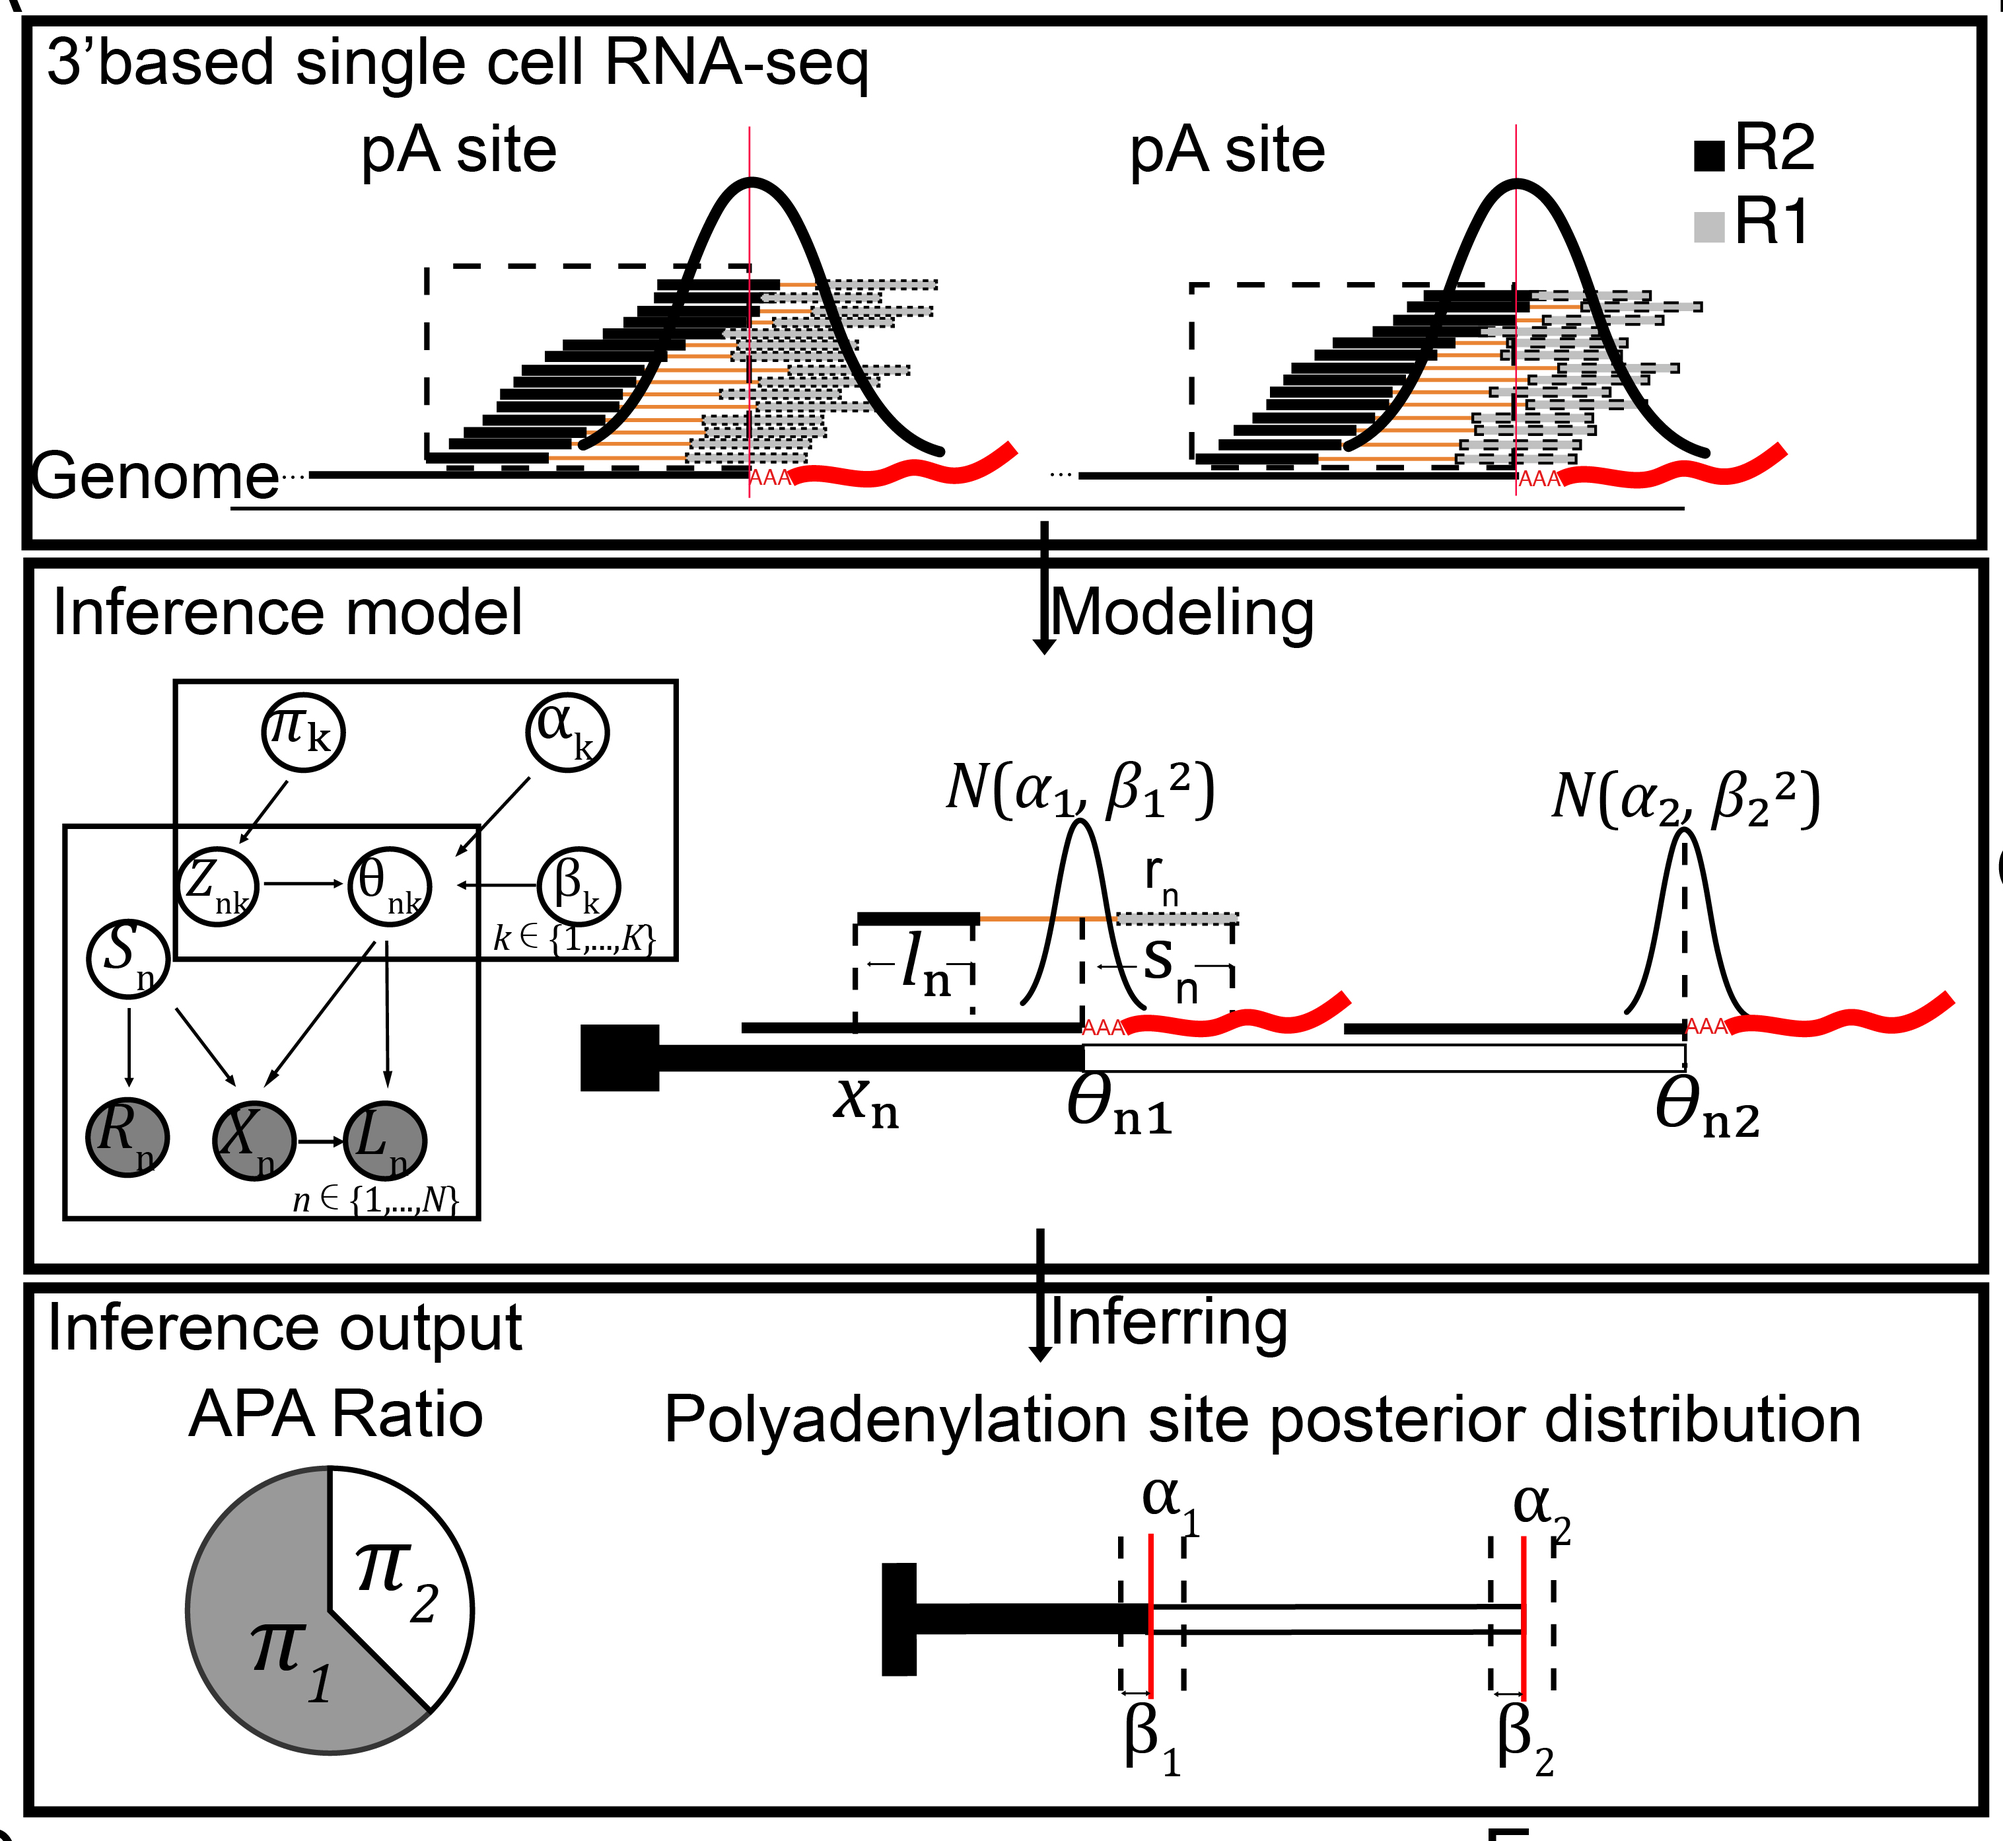
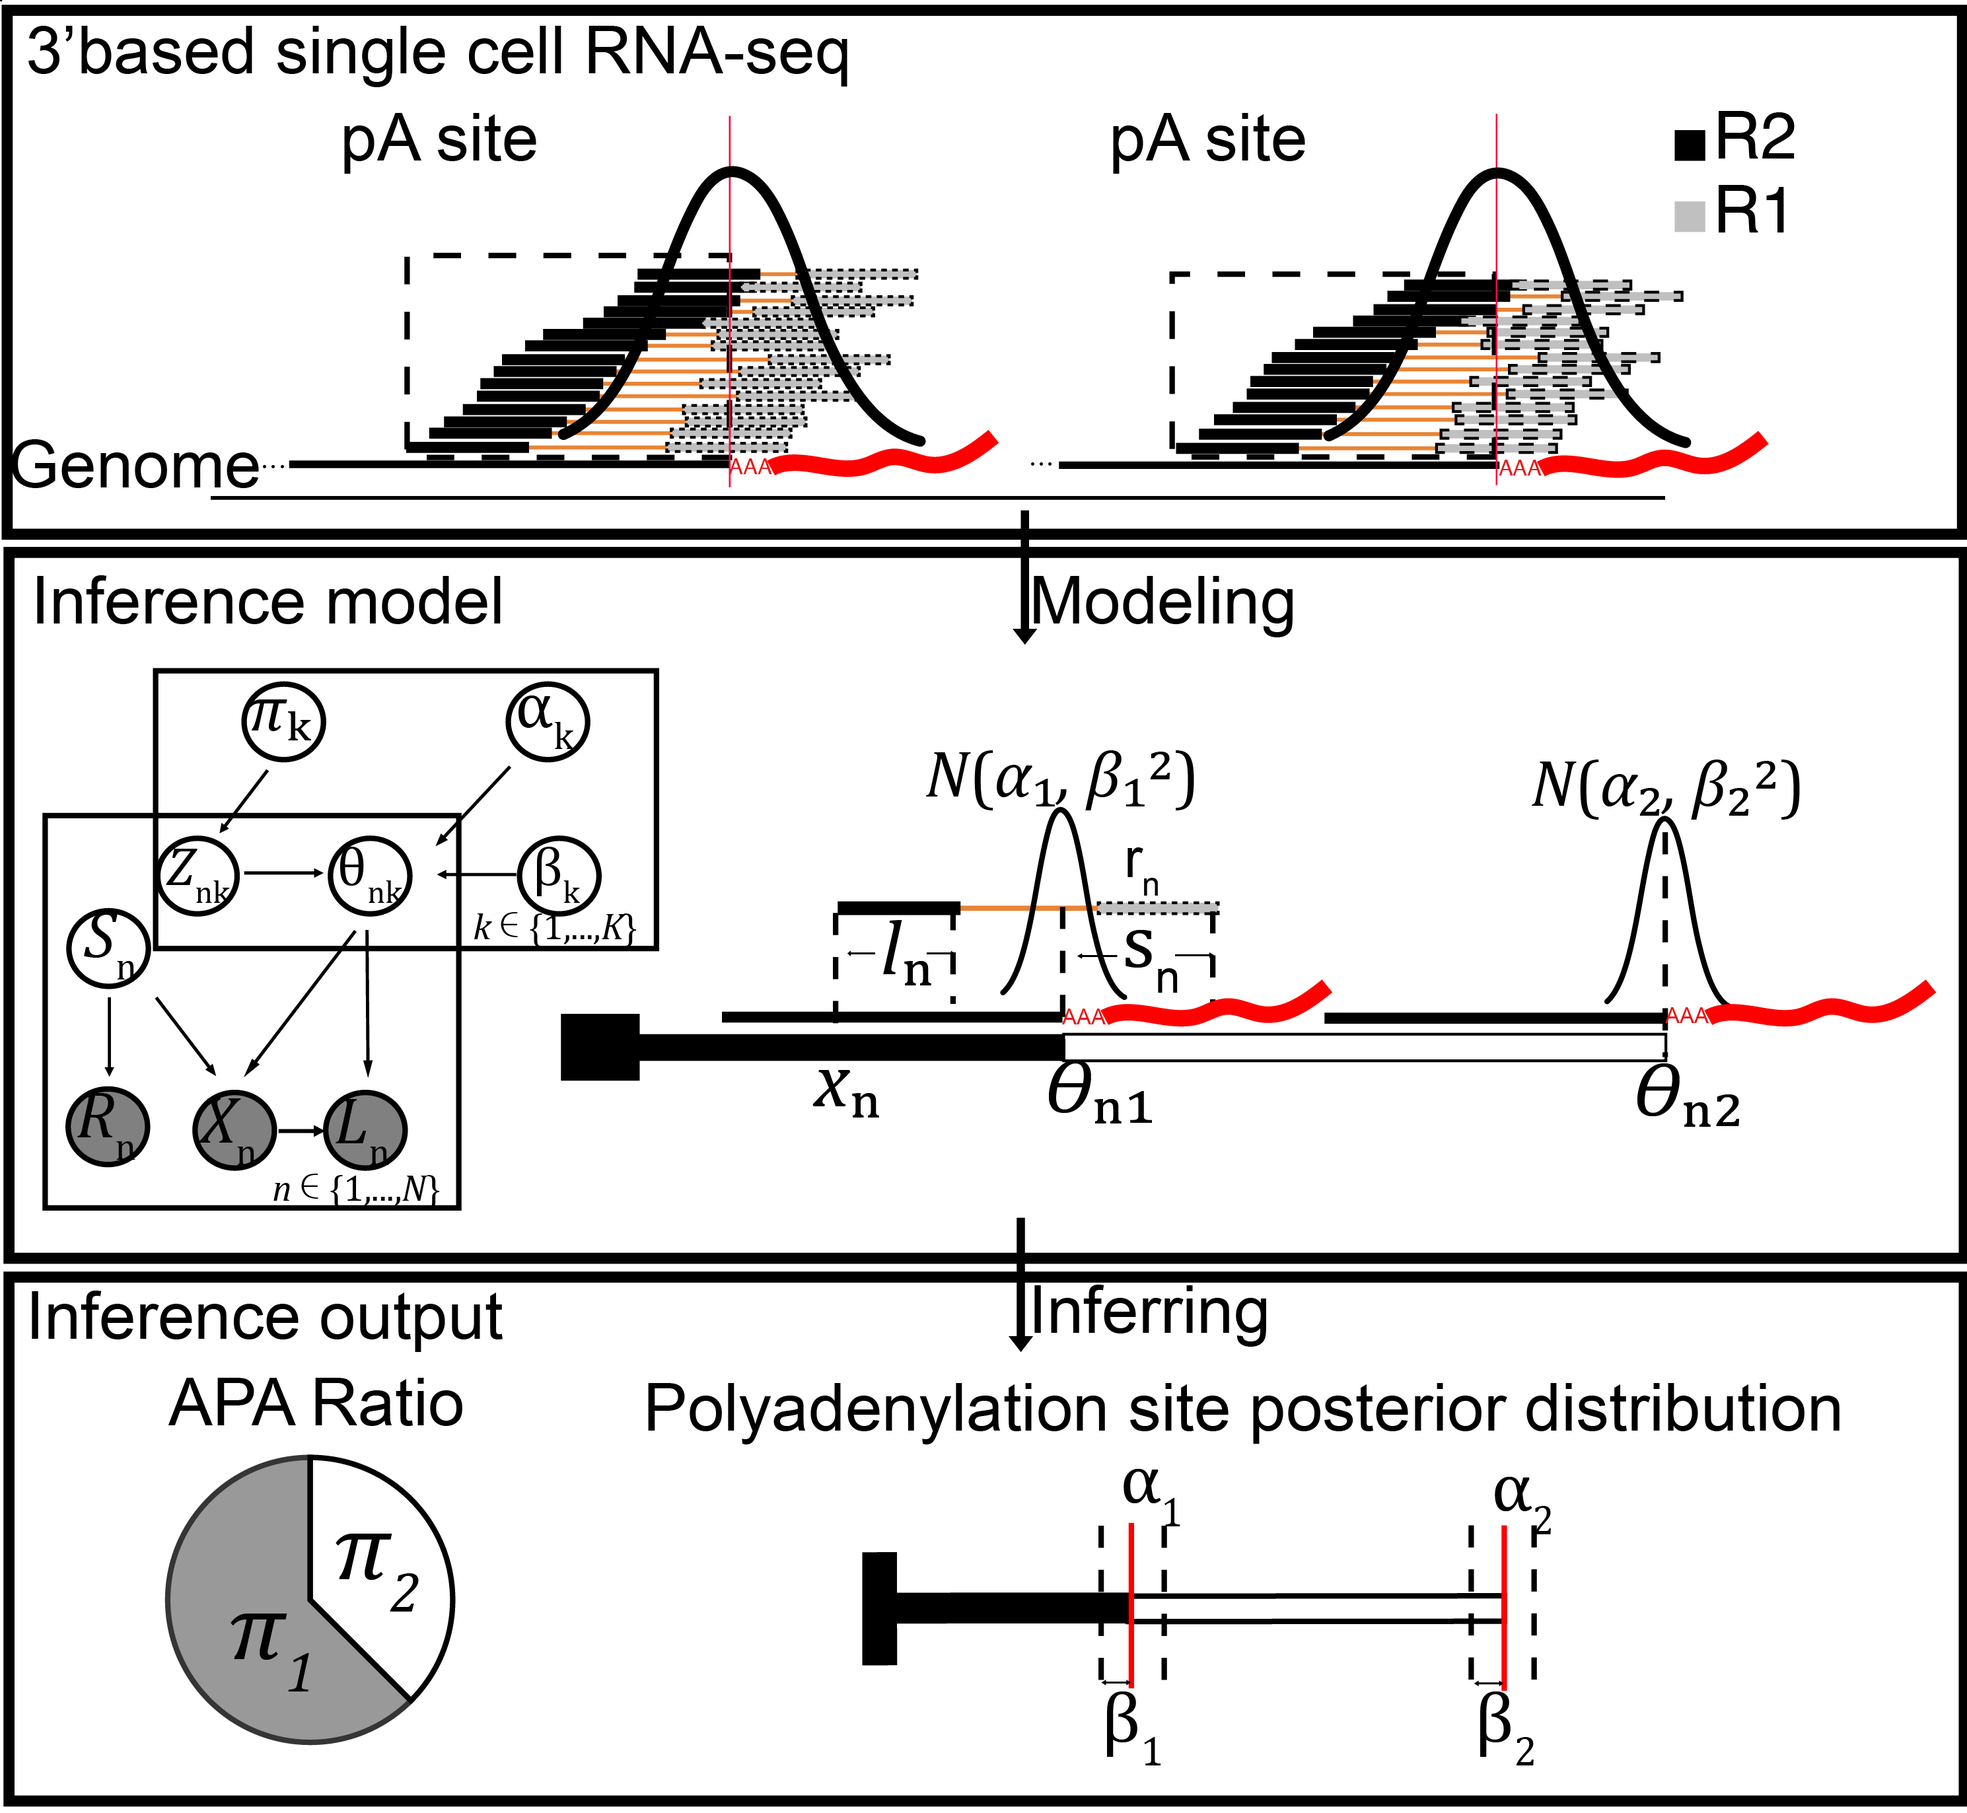
update picture in readme

diff --git a/README.md b/README.md
@@ -6,7 +6,11 @@ SCAPE is a tool for estimating alternative polyadenylation (APA) events from sin
 
 SCAPE models each pA sites as a Gaussian distribution, the corresponding isoform of which also has a weight (proportion). The final estimations are the mean and standard deviation of all pA sites, as well as their weights. The following figure shows the basic idea of SCAPE.
 
+<p align="center">
 <img src="https://github.com/zhou-ran/SCAPE/blob/main/image/model_graph.png" alt="model_graph" width="600" />
+</p>
+
+
 
 ## Input 
 
